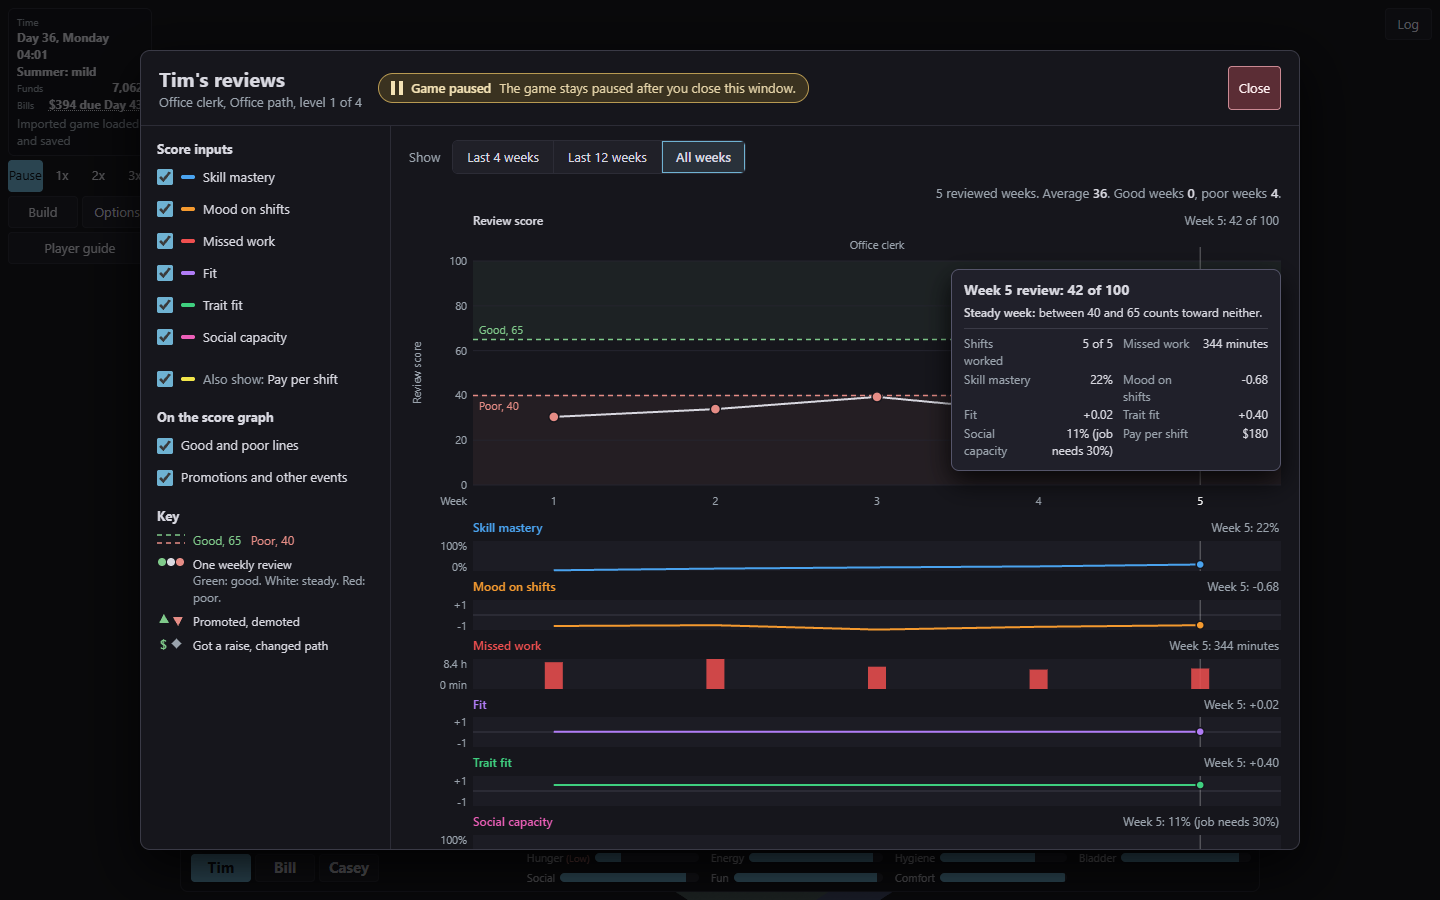
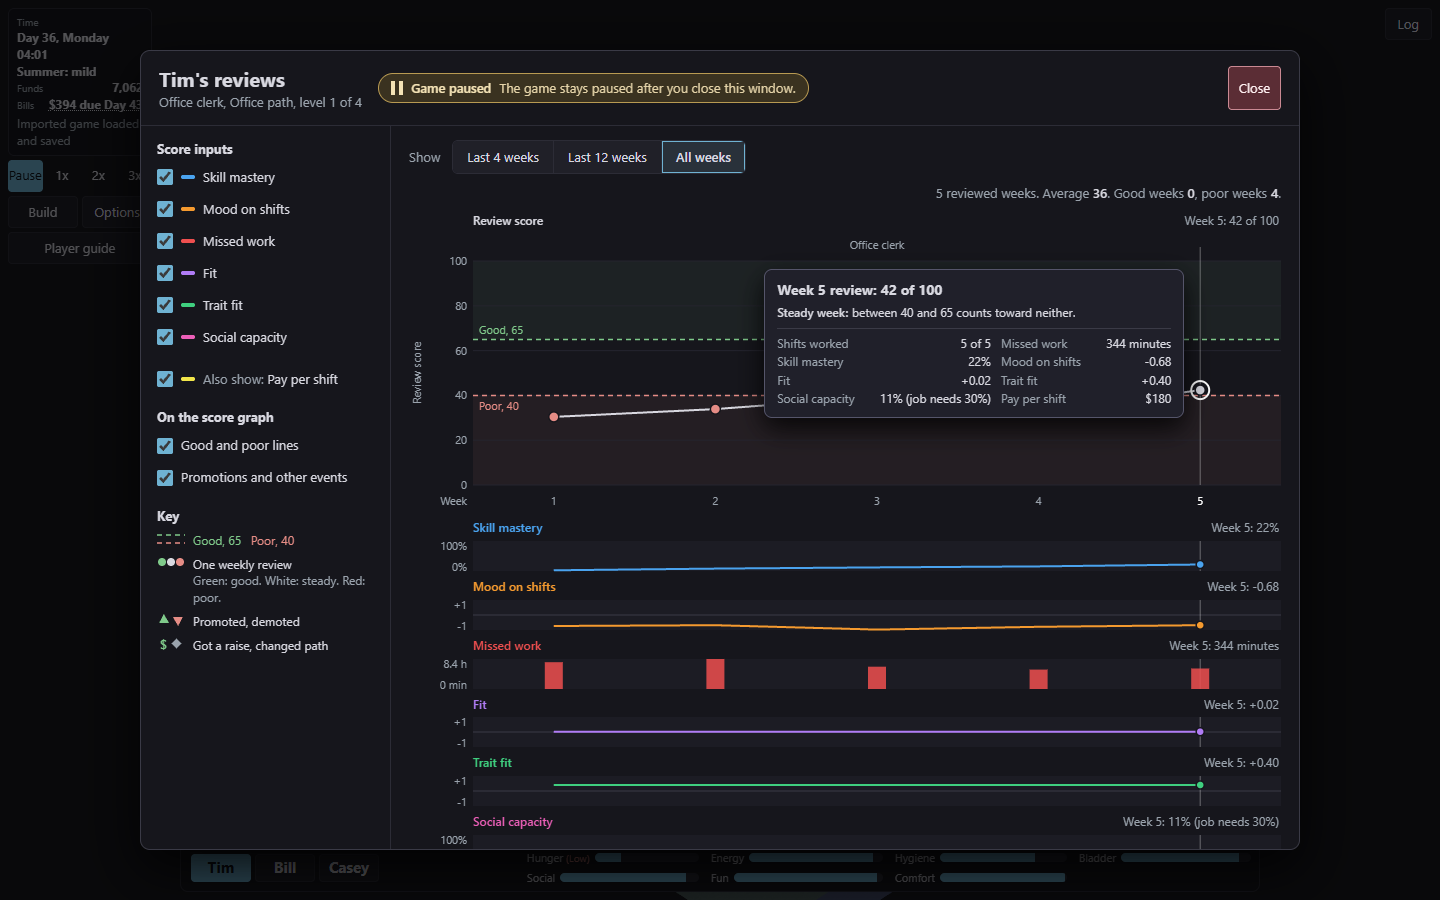
Record the second Career tab recheck: week selection and tooltip placement
Replace the review window stills with captures of the fixed build and
record the phone touch, phone mouse, keyboard and desktop tooltip checks
in the evidence README.

Changed region(s): [[0.5312, 0.3111, 0.875, 0.5289]]

diff --git a/docs/assets/review-evidence/career-tab/README.md b/docs/assets/review-evidence/career-tab/README.md
@@ -83,3 +83,18 @@ Rechecked on 2026-11-20 against the dev server serving `03bd42ae0` (served `care
 
 **Limit.** The touch result depends on Chrome's emulated mouse position; a real phone was not tested.
 
+## Second recheck, commit 52a0a9d5c
+
+Rechecked on 2026-11-20 against the dev server serving `52a0a9d5c` (served `career-graph-modal.ts` and the new `index.html` rules matched the worktree).
+
+| File | Viewport | Recheck | Result |
+| --- | --- | --- | --- |
+| `p-04-window-week3-details.png` | phone, touch | D2 with the emulated mouse resting over the chart | Pass. The tap on week 3 selected it and it stayed; Next week went to week 4, Previous week twice to week 2, Hide details closed it and the hint returned. |
+| `p-07-window-keyboard.png` | phone, touch | D2 keyboard | Pass. Focus and Left arrow chose week 4, then week 3. |
+| `pm-05-mouse-next-week.png`, `pm-06-mouse-hide-details.png` | phone, mouse | D2 mouse | Pass. Clicked week 2, moved across weeks 4, 5 and 1 and off the chart: week 2 stayed chosen. Next week then went to week 3, Previous week back to week 2, Hide details closed it; focus and Left arrow chose week 4. |
+| all phone stills above | phone | hint | Pass. The score chart stayed at the same position (291 pixels with touch, 310 without) with and without a chosen week; the hint's line stays as blank space. |
+| none (measured) | desktop | hover preview | Pass. Clicked week 2, hovered week 4 (preview showed week 4), moved off: week 2 came back. |
+| `d-10-window-tooltip-poor-week.png`, `d-10b-window-tooltip-week5-all-inputs.png`, `d-10c-window-tooltip-week4-all-inputs.png` | desktop | N1, all seven inputs, weeks 1, 5 (right edge) and 4 | Pass. The 420 pixel tooltip sits beside the point (right of week 1, left of weeks 4 and 5), never over the hovered point, inside the window, and no label or value wraps (measured and seen). It does cover neighbouring weeks' points and the line between them. |
+
+D2 and N1 are fixed. Layout check on these states: no page overflow, only the two Career fieldset leading-space findings seen before. No guide image shows the review window tooltip or the phone details, so the guide images were not changed in this recheck.
+
